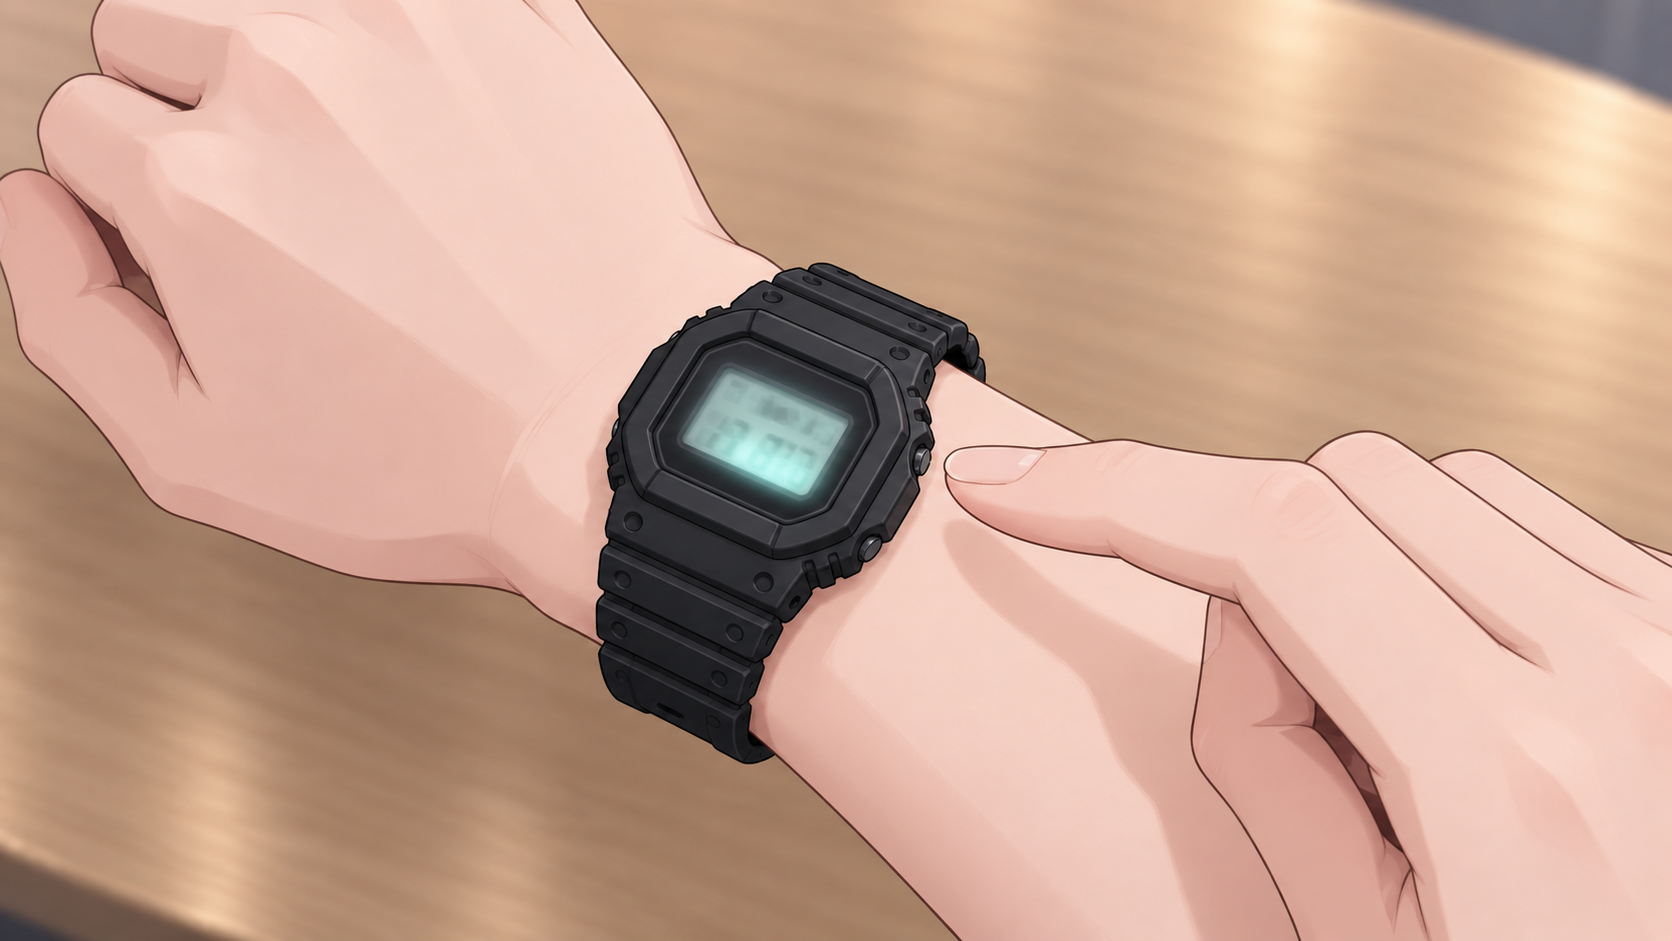
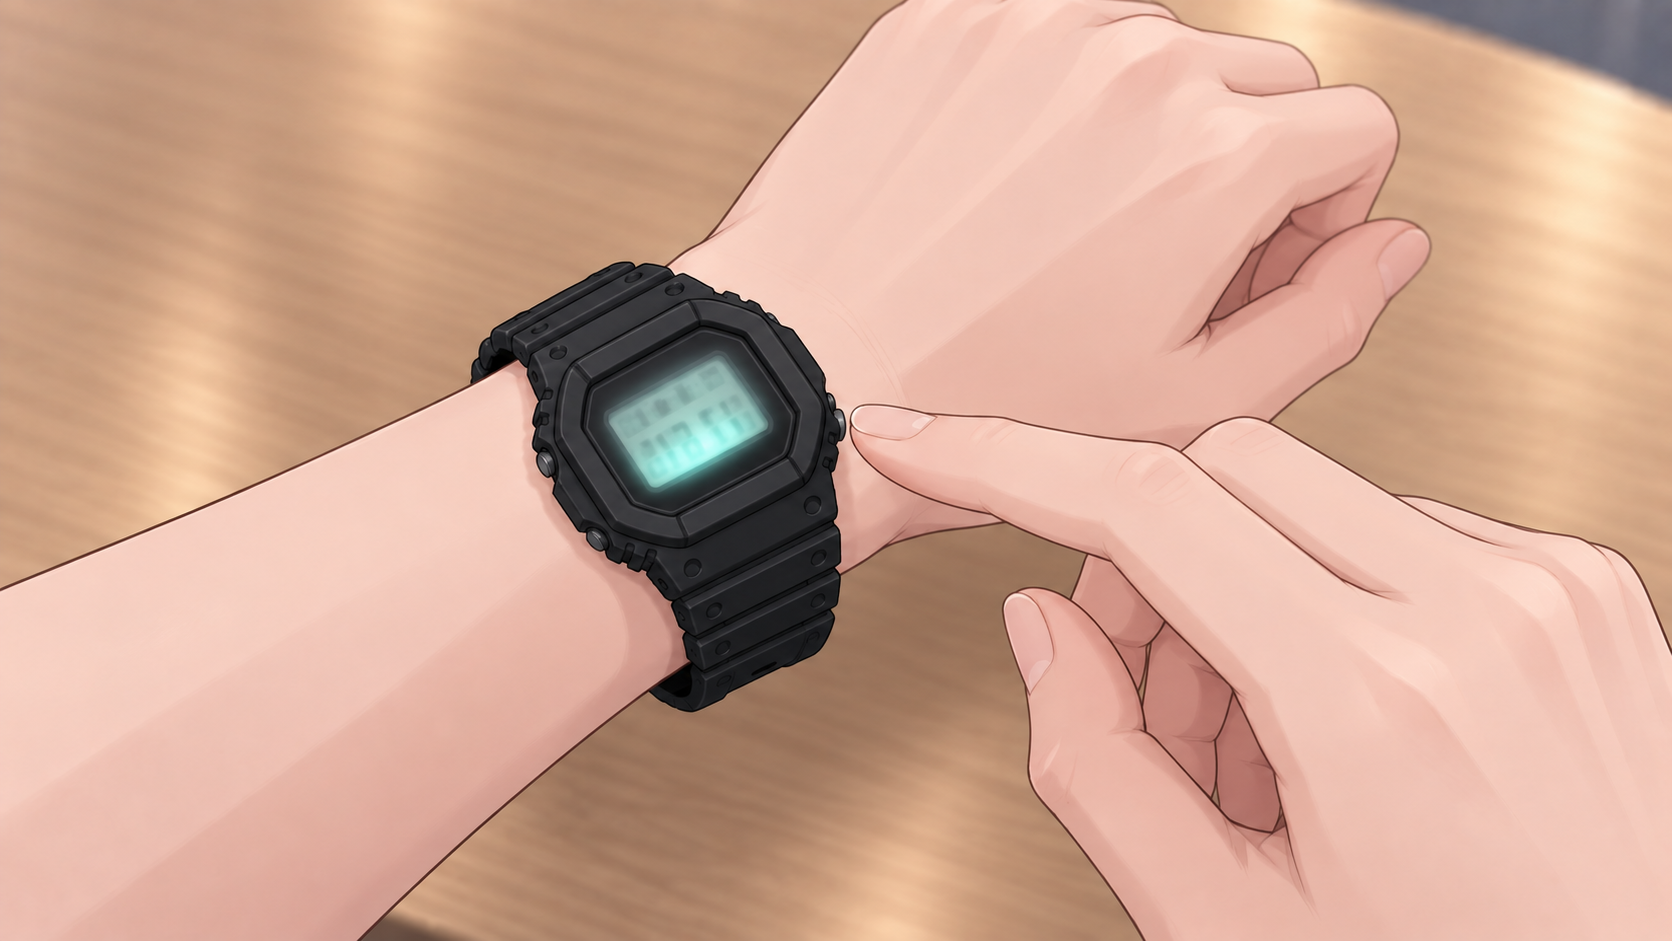
fix 04-A anatomy and quarantine invalid cutscene

diff --git a/docs/ai-handoff/CHATGPT.md b/docs/ai-handoff/CHATGPT.md
@@ -309,3 +309,22 @@
   4. 補齊規格列出的測試與桌機／手機實機驗收，並同步 runtime 變更至正典章節／場景摘要；完成後回覆本 Entry。
 - 未決問題或阻塞：本次依角色邊界只完成內容、正典與實作規格；目前可玩版本尚未套用感情線回聲、雅琳新增台詞或 MBA debrief，須待 Claude 接線後才能宣稱整體完成。
 - 驗證結果：逐一核對 15 個主要選項 ID 與 runtime 一致；`npm.cmd test` 17 個測試檔、170／170 項通過；`git diff --check` 於提交前通過。環境沒有 `story` CLI 或 repo fallback，因此以角色、時間線、主線 arc、continuity 與 game design 的人工交叉更新取代 maintenance。本次沒有修改 runtime JSON、程式、schema、路由、效果、狀態或測試。
+
+## ChatGPT-20260926-0607
+
+- 時間：2026-09-25T22:07:05Z
+- 分支或 PR：`codex/player-copy-sepia-20260920`；依使用者指示僅本地提交，不推送、不建立 PR。
+- 已讀對方紀錄：`Claude-20260925-2255`；本次並回覆素材相關的 `Claude-20260925-2240`。已確認 Claude 將兩支錯誤 MP4 移至 `coordination/pending-review/cutscenes/` 的安全處置正確，本次不修改 Claude-owned cue、播放器、測試或建置設定。
+- 本次範圍：使用者再次明確指出 `01_meeting_invitation.mp4` 有角色與故事不一致，並指出 04-A 的肢體結構不符合物理。核對現況後，維持錯誤影片下架；以 imagegen 編修 04-A，重建遊戲用 WebP 與交付 manifest，並同步製作文件與驗收紀錄。
+- 實際變更檔案：
+  - `public/assets/cutscenes/keyframes/runway-v2/04-A.png`：重製來源關鍵影格。
+  - `public/assets/cutscenes/storyboard/04-A.webp`、`public/assets/cutscenes/storyboard/manifest.json`：以 `npm.cmd run assets:storyboard` 重建的交付檔與來源雜湊。
+  - `public/assets/cutscenes/keyframes/runway-v2/REVIEW.md`、`property/cutscene-storyboard-v2.md`：記錄修正內容與錯誤影片禁用規則。
+  - `docs/ai-handoff/CHATGPT.md`：本 Entry。
+- 已定案事項：
+  1. `01_meeting_invitation.mp4` 不可重新上架。它的內容其實屬於 final-documents／s1 節點，且片中曾雅琳仍是舊版深色髮與深色套裝；現有原檔保留於 pending-review 供比對，公開路徑缺檔時沿用乾淨分鏡 fallback。
+  2. 04-A 新稿維持 1672×941、手繪視覺小說畫風、暖色木桌、左腕黑色矩形數位錶與不可讀背光；左前臂與手掌自然連接，右手由對側靠近，食指停在可實際按壓的錶殼側鍵旁。沒有多手、多指、腕側顛倒、手機或圓錶。
[1 lines of base64/hex data omitted]
+- 交給 Claude 的明確行動：04-A 已通過 ChatGPT 的內容與素材驗收。請把 `04-A` 加回 `property/cutscene-cues.json` 的 `boundary-question` storyboard，順序置於 04-B、04-C 前，沿用原規格 2 秒；更新相關測試、重跑 typecheck／全量測試／build，並以桌機與手機確認 04-A→04-B→04-C 播放與跳過行為。不要重新啟用或搬回舊的 `01_meeting_invitation.mp4`。
+- 未決問題或阻塞：`01_meeting_invitation.mp4` 的正式重製尚未完成；目前已有安全 fallback，不阻擋遊玩。04-A 的來源與交付檔已完成，但重新加入 runtime cue 屬 Claude 的資產整合職責，在 Claude 回覆前不能宣稱遊戲內已恢復該格。
+- 驗證結果：原始與交付 04-A 均逐張目視；尺寸 1672×941，構圖、左右手、腕部、側鍵位置、錶型與不可讀背光符合分鏡。`npm.cmd run assets:storyboard` 成功，13 張來源 23.1MB 重建為 1118KB，04-A 為 1471509 bytes → 32988 bytes；manifest 已同步來源 SHA 與大小。`npm.cmd run typecheck` 通過；`npm.cmd test` 17 檔 170／170、`npm.cmd run build` 通過（測試與建置初次受沙箱拒絕讀取 Vite 設定，依規則在沙箱外重跑成功）；`git diff --check` 通過。

diff --git a/public/assets/cutscenes/keyframes/runway-v2/REVIEW.md b/public/assets/cutscenes/keyframes/runway-v2/REVIEW.md
@@ -88,13 +88,13 @@
 
 原生 PNG：1672×941；1893316 bytes。SHA-256：e848e84b386c455961c83c21d3e5a8ae093ce7604a053b3b85f2545173aca611。
 
-## 04-A — 待使用者驗收
+## 04-A — 已修正肢體結構，待遊戲整合
 
-左腕矩形數位錶亮起，右手指尚未按暗；錶面刻意模糊無可讀時間。
+左腕矩形數位錶亮起，右手從自然方向靠近錶殼側鍵，食指停在可實際按壓的位置；左右手腕、前臂與手指關節均符合人體結構。錶面刻意模糊，沒有可讀時間。
 
 ![04-A 起始關鍵影格](04-A.png)
 
-原生 PNG：1672×941；1440977 bytes。SHA-256：e8bd2742e592ab711356f6209fb69bb733e488c17067cc440ee2805344be4b90。
+原生 PNG：1672×941；1471509 bytes。SHA-256：e8ded6a5e95518523a7a54c30cc83ea7aa8e5a15ada3eda8a39429e9767dcc82。2026-09-26 以原圖為編修目標重製，只修正物理上不合理的手部與手腕姿勢；矩形左腕數位錶、桌面、構圖、背光與同段畫風均保留。
 
 ## 04-B — 待使用者驗收
 

diff --git a/property/cutscene-storyboard-v2.md b/property/cutscene-storyboard-v2.md
@@ -72,6 +72,8 @@
 
 02-B 的「停頓」只表現閱讀桌面的一瞬，不重演 s3 `choice1=clear` 專屬台詞或放大成固定反應；仍需三條邀請路線連戲驗收。04 鏡頭裁掉文件與筆，避免假設 Choice 4 後它們的位置。
 
+2026-09-26 素材修正：04-A 已重製為可實際按壓錶殼側鍵的自然姿勢，左腕、右手、前臂與手指關節方向均重新驗收；原本物理上不合理的版本不得再使用。`01_meeting_invitation.mp4` 因故事節點錯置且片中雅琳仍是舊版人物設定，維持移出公開素材、不得出貨；重製時應以本文件的 01-A／01-B 邀請內容與新版雅琳設定為準。
+
 ## 第二批：13 張起始影格與逐鏡 Runway 條目
 
 以下是製作規格，**等待第一批驗收**；均未生成。結局可濃縮確定結果，但不發明新台詞、和解、接觸或流程承諾。
